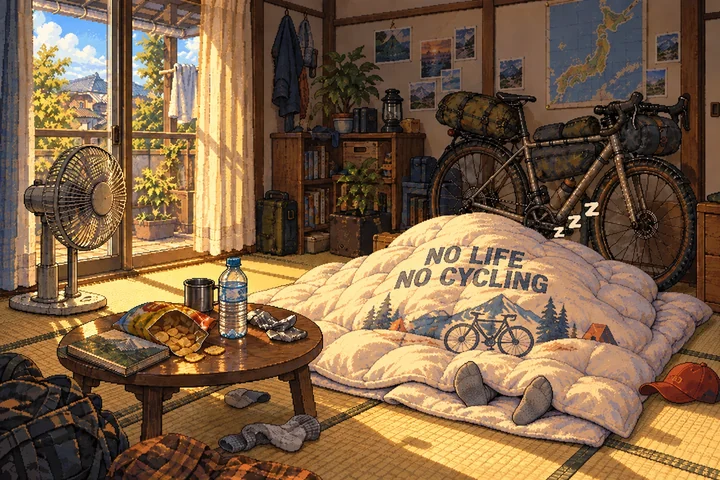
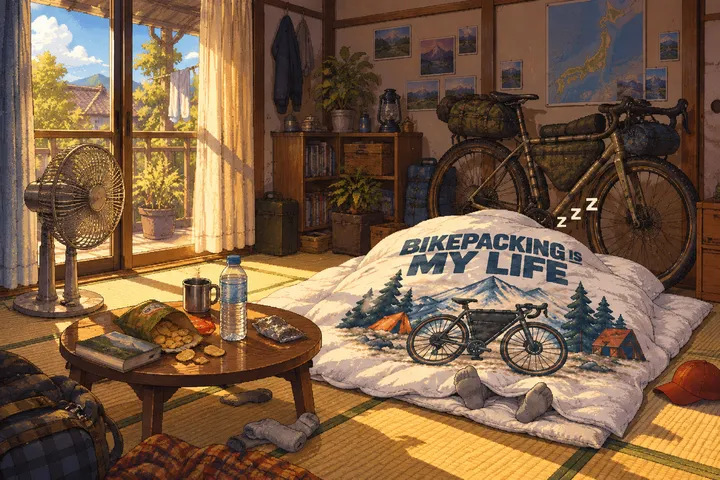
「自宅で休養」の絵を差し替え（BIKEPACKING IS MY LIFE の布団）。古い絵が残らないよう ?v=2 を付与
Claude-Session: https://claude.ai/code/session_01N9UH7aPas3bYDXNeJrASUj

diff --git a/index.html b/index.html
@@ -1803,7 +1803,7 @@ function endTrip2(camp){const p=trip.p,f=S.forecast[p.id],st=bikeStats(),cl=CLOT
   if(S.money<0)html+=`<p class="hint">所持金がマイナス。次の投稿収入で返済される。</p>`;
   S.sel=S.loc;render();showResult(html,advance);}
 function restHome(){const ti=travelInfo(PREF[S.home]);if(S.loc!==S.home){const forced=S.money<ti.rinko;if(!forced&&!$('ov-pay').dataset.ok){askPay('輪行で自宅に帰って休みますか？',ti.rinko,()=>{$('ov-pay').dataset.ok='1';restHome();});return;}delete $('ov-pay').dataset.ok;}S.stay=0;const forced2=S.loc!==S.home&&S.money<ti.rinko,pen=forced2?floss(30,.04):floss(10,.015);snap();if(S.loc!==S.home&&!forced2)S.money-=ti.rinko;INTRIP=true;S.loc=S.home;S.hp=100;S.mp=100;S.fame=Math.max(0,S.fame-pen);
-  log(forced2?`所持金が尽きて強制帰宅。フォロワー-${fol(pen)}`:`自宅で休養。フォロワー-${fol(pen)}`);S.sel=S.loc;render();showResult(`<h2>自宅で休養</h2><div class="photo pic"><img src="img/rest.webp" width="720" height="480" alt="自宅の和室で、布団を頭までかぶって昼寝する旅行者"><div class="cap"><div>${PREF[S.home].name}の自宅</div><div>💤 一日中ごろごろ</div></div></div><p>${forced2?`所持金が尽きて旅を続けられず、自宅へ連れ戻された…。体力・気力は全回復したが、フォロワー-${fol(pen)}。`:`体力・気力が全回復した。投稿がなく フォロワー-${fol(pen)}。`}</p>`,advance);}
+  log(forced2?`所持金が尽きて強制帰宅。フォロワー-${fol(pen)}`:`自宅で休養。フォロワー-${fol(pen)}`);S.sel=S.loc;render();showResult(`<h2>自宅で休養</h2><div class="photo pic"><img src="img/rest.webp?v=2" width="720" height="480" alt="自宅の和室で、布団を頭までかぶって昼寝する旅行者"><div class="cap"><div>${PREF[S.home].name}の自宅</div><div>💤 一日中ごろごろ</div></div></div><p>${forced2?`所持金が尽きて旅を続けられず、自宅へ連れ戻された…。体力・気力は全回復したが、フォロワー-${fol(pen)}。`:`体力・気力が全回復した。投稿がなく フォロワー-${fol(pen)}。`}</p>`,advance);}
 function showResult(html,then,share){$('result-box').innerHTML=html+(share?`<p class="hint" id="res-note" style="margin:0"></p>`:'')+`<div class="resbtns">${share?'<button id="res-share">SNSに投稿<small>（画像つき）</small></button>':''}<button class="primary" id="res-ok">次の週末へ</button></div>`;$('ov-result').hidden=false;$('res-ok').onclick=()=>{$('ov-result').hidden=true;then();};}
 function turnPopup(){const t=TS;TS=null;if(!t)return;const e=$('pop'),sg=n=>(n>0?'+':n<0?'-':'')+Math.abs(n);
   const spv=t.sp?t.sp[1]:0,dm=S.money-t.money,other=dm-(t.inc-t.fee)-spv-(t.bonus||0),dh=S.hp-t.hp,dp=S.mp-t.mp,df=S.fame-t.fame,fc=S.fam.filter(Boolean).length;
@@ -1842,7 +1842,7 @@ addEventListener('pagehide',save);
 // 開きっぱなしのタブが古いコードのまま保存し直して、新しい保存項目を失うのを防ぐ。
 // 実行中のコードに埋め込んだ版の識別子 APP_V と、いま配信されている index.html の APP_V を比べる（最初に取れた配信内容を「実行中の版」の代わりにしない）。
 // ★ APP_V は index.html の内容から計算する。index.html を変えたら `node qa/stamp.cjs` で更新する（忘れると監査テストが失敗する）。
-const APP_V='3ed8aef47e52';
+const APP_V='56362d2f4132';
 // 旅・戦闘・結果画面（INTRIP）の間は、save() が保存を見送るので、再読み込みすると進行が巻き戻る。旅が終わったあとも trip / B には前回の値が残るため、これらは見ない
 const UPD={pending:'',busy:false,scheduled:false,last:0,every:600000,quiet:600000,timeout:15000,reloadedAt:0,note:null,timer:0,
  safe:()=>!INTRIP,
